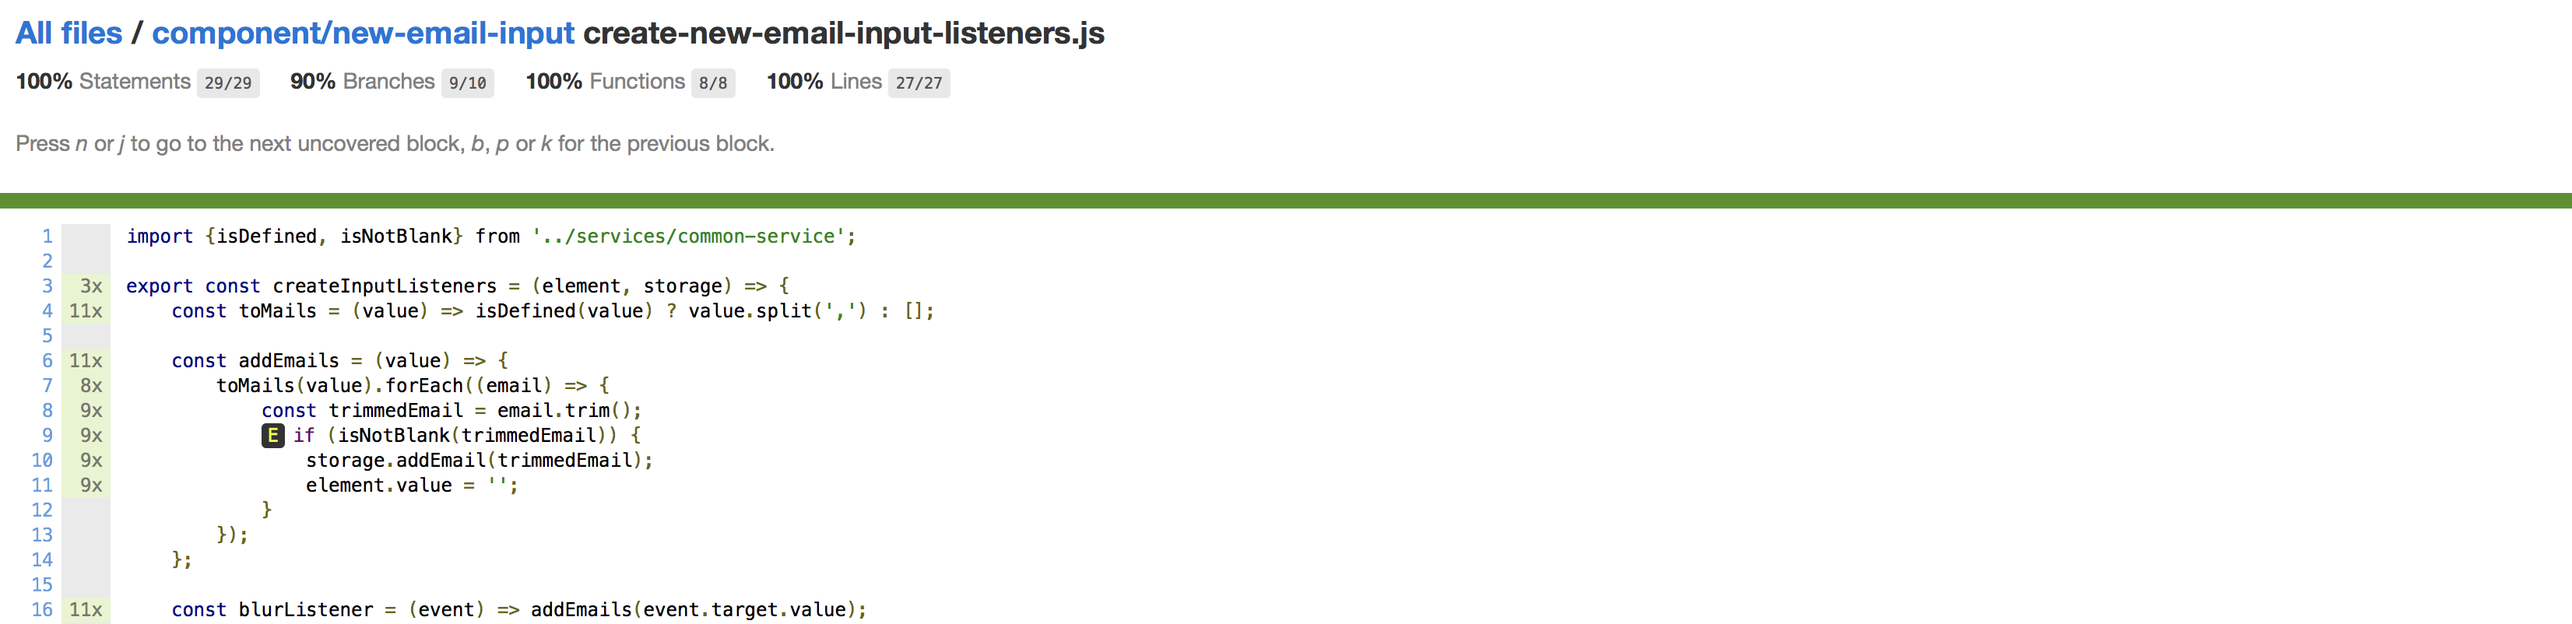
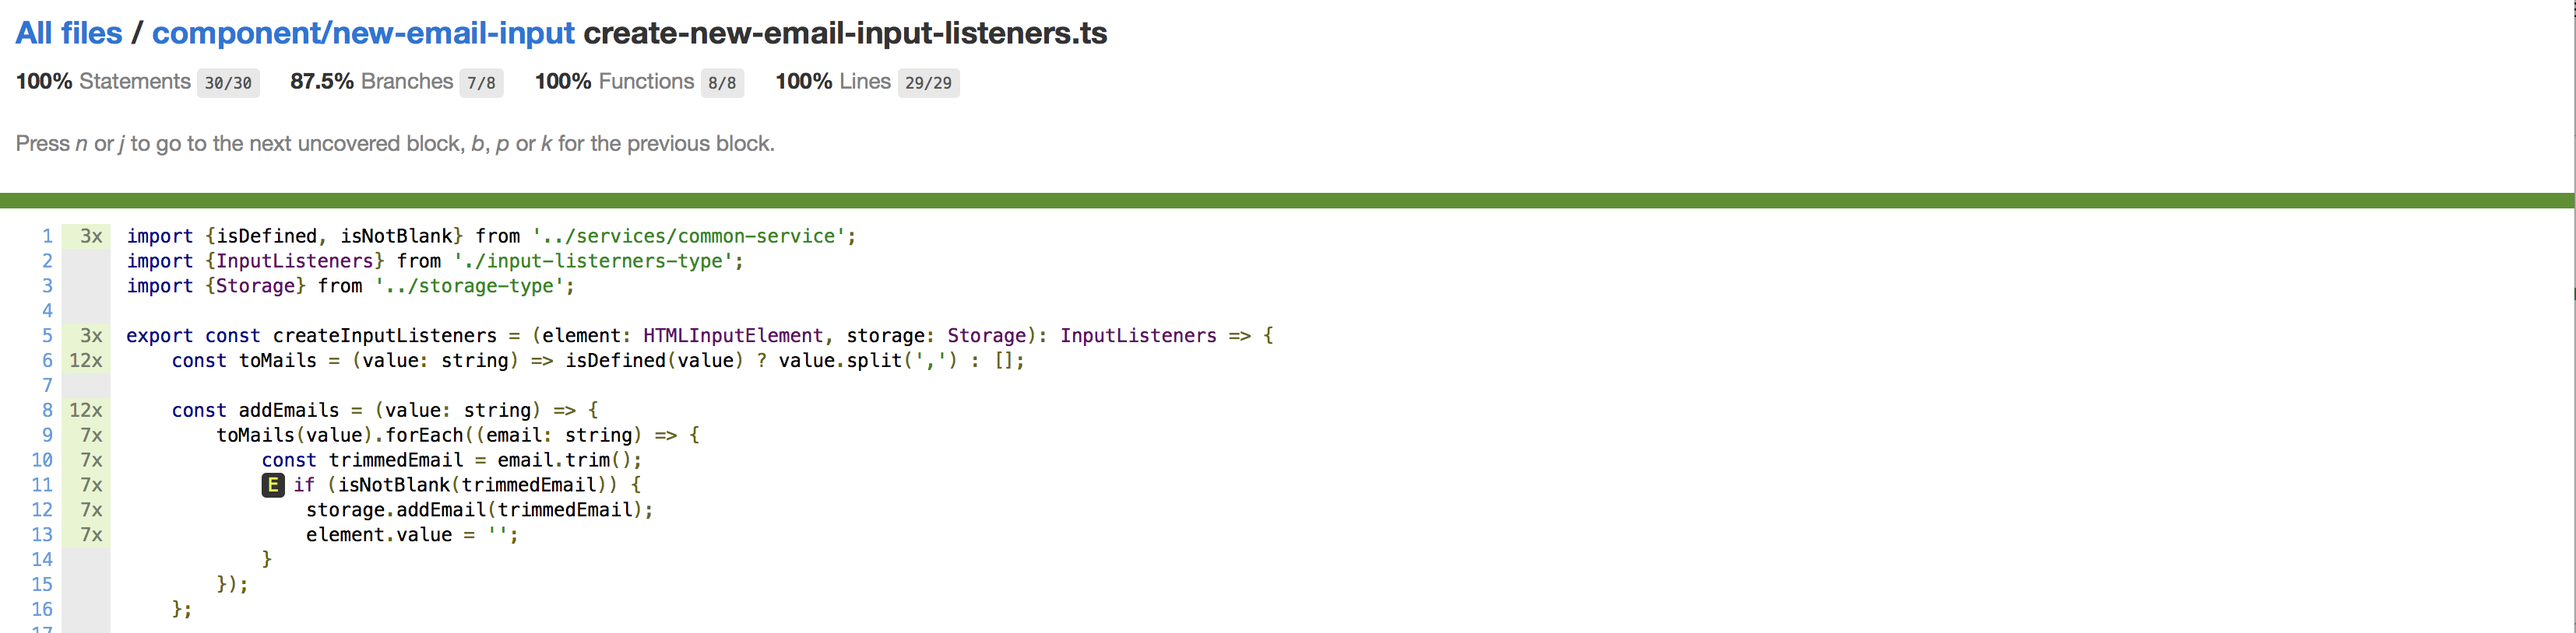
* Updated yarn.lock * Updated image and code snippet in docs (after migration to Typescript)
# Conflicts:
#	src/component/email-input/email-input-component.ts
#	src/playground/auxiliary/form/playground-form-options-type.ts
#	src/playground/auxiliary/form/playground-form.js
#	yarn.lock

diff --git a/README.md b/README.md
@@ -253,7 +253,7 @@ You will see it in a nicely displayed table.
 ![Unit test results](./docs/unit-test-reports.png)
 
 If in some cases your coverage drops, IDE doesn't always show properly where is the issue, like for example in
-Intellij IDEA. In that case you can use that report for navigation and troubleshooting. 
+[Intellij IDEA](https://www.jetbrains.com/idea/). In that case you can use that report for navigation and troubleshooting. 
 
 Example of that:
 
@@ -393,26 +393,27 @@ global.EmailsInput = EmailsInput;
 In that way both cases actually work with emails-input component in isolation and communicate with it only through 
 provided api calls. What can be found in `playground-form.js`. A short snippet of the code from there:
 
-```javascript
-    const registerListeners = (emailsInput) => {
-            rootElement.querySelector(`.${styles.playgroundForm} .add-email`)
-                .addEventListener('click', addEmailListener(emailsInput));
-            rootElement.querySelector(`.${styles.playgroundForm} .get-emails-count`)
-                .addEventListener('click', getEmailsCountListener(emailsInput));
-            emailsInput.subscribe((emailInput) => {
-                console.log('Added email(s)', emailInput.added);
-                console.log('Removed email(s)', emailInput.removed);
-                console.log('Currently containing emails', emailInput.inputs);
-            });
-        };
+```typescript
+    const registerListeners = (emailsInputApi: EmailsInputApi) => {
+        rootElement.querySelector(`.${styles.playgroundForm} .add-email`)
+            .addEventListener('click', addEmailListener(emailsInputApi));
+        rootElement.querySelector(`.${styles.playgroundForm} .get-emails-count`)
+            .addEventListener('click', getEmailsCountListener(emailsInputApi));
+        emailsInputApi.subscribe((message) => {
+            console.info('Added email(s)', message.added);
+            console.info('Removed email(s)', message.removed);
+            console.info('Currently containing emails', message.inputs);
+        });
+    };
     
-        const postRender = () => {
-            options.emailsInputList.forEach((emailsInputConfig) => {
-                const {id, placeholder, showTitle, validators} = emailsInputConfig;
-                const inputContainerNode = document.querySelector(`#${id}`);
-                const emailsInput = EmailsInput(inputContainerNode, {placeholder, showTitle, validators});
-                emailsInput.replaceAll(emailsInputConfig.initialData);
-                registerListeners(emailsInput);
-            });
-        };
+    const postRender = (): void => {
+        options.emailsInputList.forEach((emailsInputConfig: PlaygroundFormOptionType) => {
+            const {id, placeholder, showTitle, validators} = emailsInputConfig;
+            const inputContainerNode = document.querySelector(`#${id}`);
+
+            const emailsInputApi = EmailsInput(inputContainerNode, {placeholder, showTitle, validators});
+            emailsInputApi.replaceAll(emailsInputConfig.initialData);
+            registerListeners(emailsInputApi);
+        });
+    };
 ```
